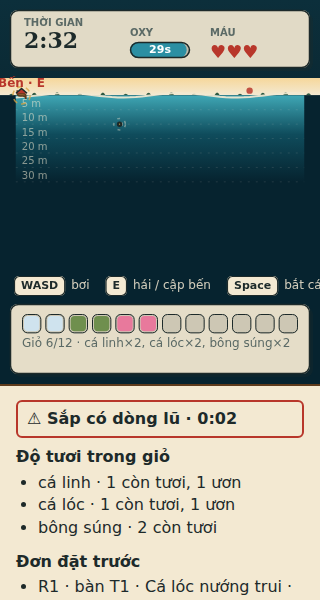
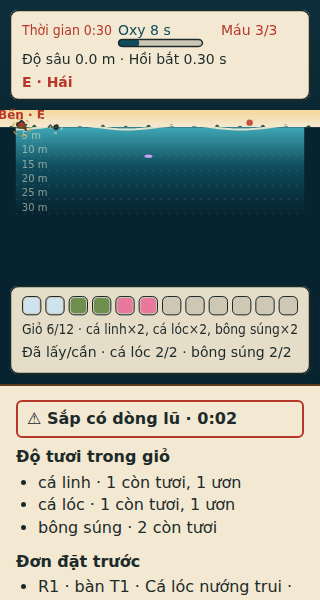
fix: giữ đủ HUD Phase 2 khi chơi Phase 3
Khôi phục mục tiêu thu gom, cảnh báo lặn, tiền ca, bếp và các bàn. Kiểm Chromium ở hai kích thước, suite 377 đạt và 1 skip. Ghép thử lát D 853ce1b: HUD nhận đặt trước từ mô phỏng thật, 22 test đạt.

Changed region(s): [[0.0, 0.03, 1.0, 0.36], [0.0312, 0.45, 1.0, 0.6]]

diff --git a/chonoi/web/index.html b/chonoi/web/index.html
@@ -472,12 +472,11 @@ function panel(x, y, w, h, fill = C.panel) {
   ctx.fillStyle = fill; rr(x, y, w, h, 8); ctx.fill();
   ctx.strokeStyle = C.ink; ctx.lineWidth = 1.5; rr(x + .5, y + .5, w - 1, h - 1, 8); ctx.stroke();
 }
-function bar(x, y, w, h, frac, color, label) {
+function bar(x, y, w, h, frac, color) {
   ctx.fillStyle = "rgba(29,42,42,.18)"; rr(x, y, w, h, h / 2); ctx.fill();
   const f = Math.max(0, Math.min(1, frac));
   if (f > 0) { ctx.fillStyle = color; rr(x, y, Math.max(h, w * f), h, h / 2); ctx.fill(); }
   ctx.strokeStyle = C.ink; ctx.lineWidth = 1.5; rr(x + .5, y + .5, w - 1, h - 1, h / 2); ctx.stroke();
-  if (label) text(label, x + w / 2, y + h / 2, { size: 11, weight: 600, align: "center", base: "middle", color: "#fff" });
 }
 function fmtTime(ticks) {
   const s = Math.ceil(ticks / 60);
@@ -494,15 +493,15 @@ function eventLog(w, h, bottom) {
   ev.forEach((e, i) => text(`t${e.tick} ${e.name} ${brief(e.data)}`, x + 10, y + 18 + i * 16,
     { size: 11, color: "rgba(243,233,210,.85)", maxWidth: pw - 20 }));
 }
-function banner(msg, y, color) {
+function banner(msg, w, y, color) {
   ctx.font = "600 15px " + SANS;
-  const tw = ctx.measureText(msg).width + 32, x = (innerWidth - tw) / 2;
+  const tw = Math.min(w - 16, ctx.measureText(msg).width + 32), x = (w - tw) / 2;
   ctx.fillStyle = color; rr(x, y - 20, tw, 32, 16); ctx.fill();
-  text(msg, innerWidth / 2, y - 4, { align: "center", color: "#fff", size: 15, weight: 600 });
+  text(msg, w / 2, y - 4, { align: "center", color: "#fff", size: 15, weight: 600, maxWidth: tw - 24 });
 }
 function overlay(w, h) {
-  if (offline) banner("Mất kết nối tới máy chủ (đã tắt chưa?)", 112, C.lacquer);
-  if (snap.error) banner("Luật của nhóm báo lỗi — xem terminal. R để chơi lại.", 148, C.lacquer);
+  if (offline) banner("Mất kết nối tới máy chủ (đã tắt chưa?)", w, 112, C.lacquer);
+  if (snap.error) banner("Luật của nhóm báo lỗi — xem terminal. R để chơi lại.", w, 148, C.lacquer);
   if (snap.finished) {
     ctx.fillStyle = "rgba(6,35,47,.6)"; ctx.fillRect(0, 0, w, h);
     const pw = Math.min(440, w - 24), ph = 150, x = (w - pw) / 2, y = (h - ph) / 2;
@@ -531,13 +530,6 @@ function hints(items, x, y, color) {
     cx += ctx.measureText(d).width + 16;
   }
 }
-function chip(label, value, x, y, color) {
-  text(label, x, y, { size: 10, weight: 600, color: C.inkSoft });
-  text(value, x, y + 22, { size: 22, serif: true, weight: 700, color: color || C.ink });
-}
-
-const CLOCK_COLOR = "#ffae83";
-const WARNING_COLOR = "#ff9c9c";
 const MONSTER_COLOR = "#c9a0ff";
 const distance = (a, b) => Math.hypot(a[0] - b[0], a[1] - b[1]);
 
@@ -656,7 +648,9 @@ function drawGather(w, h) {
   const meta = snap.meta || {};
   const b = meta.bounds || { x: [0, 100], d: [0, 30] };
   const X = b.x[1], D = b.d[1], SKY = 6;
-  const top = 78, bottom = 82;
+  const desktop = w >= 760;
+  const size = desktop ? 18 : 14;
+  const top = 110, bottom = 100;
   const s = Math.max(1, Math.min((w - 20) / (X + 4), (h - top - bottom) / (D + SKY + 1)));
   const ox = (w - s * (X + 4)) / 2 + 2 * s, oy = top + SKY * s;
   const sx = (x) => ox + x * s, sy = (d) => oy + d * s;
@@ -743,21 +737,37 @@ function drawGather(w, h) {
     }
   }
   // HUD trên
-  panel(10, 10, Math.min(w - 20, 520), 58);
-  chip("THỜI GIAN", fmtTime(snap.time_left_ticks), 24, 26);
-  let hx = 130;
-  if (p && p.oxygen_ticks !== undefined && p.oxygen_max_ticks) {
-    const low = p.oxygen_ticks < p.oxygen_max_ticks * 0.25, bw = Math.min(190, Math.max(60, w - hx - 200));
-    text("OXY", hx, 36, { size: 10, weight: 600, color: C.inkSoft });
-    bar(hx, 42, bw, 16, p.oxygen_ticks / p.oxygen_max_ticks, low ? C.lacquer : "#2b8fa3", Math.ceil(p.oxygen_ticks / 60) + "s");
-    hx += bw + 20;
+  panel(10, 10, Math.min(w - 20, 640), 90, C.paper);
+  const oxyX = desktop ? 185 : 118;
+  const oxyWidth = desktop ? 132 : Math.max(36, Math.min(85, w - 222));
+  text(`Thời gian ${fmtTime(snap.time_left_ticks)}`, 22, 35,
+    { size, maxWidth: oxyX - 28, color: snap.time_left_ticks <= 30 * 60 ? C.lacquer : C.ink });
+  if (p?.oxygen_max_ticks) {
+    const ratio = p.oxygen_ticks / p.oxygen_max_ticks;
+    const color = ratio < .25 ? C.lacquer : C.teal;
+    text(`Oxy ${Math.ceil(p.oxygen_ticks / 60)} s`, oxyX, 35, { size, color });
+    bar(oxyX, 39, oxyWidth, 8, ratio, color);
   }
-  if (p && p.hp !== undefined && p.hp_max) {
-    text("MÁU", hx, 36, { size: 10, weight: 600, color: C.inkSoft });
-    text("♥".repeat(Math.max(0, p.hp)) + "♡".repeat(Math.max(0, p.hp_max - p.hp)), hx, 58, { size: 18, color: C.lacquer, maxWidth: 110 });
+  if (p?.hp_max) text(`Máu ${p.hp}/${p.hp_max}`, oxyX + oxyWidth + 18, 35, { size, color: C.lacquer });
+  if (p?.pos) {
+    const depth = p.pos[1];
+    const cooldown = p.catch_cd_ticks > 0 ? `${(p.catch_cd_ticks / 60).toFixed(2)} s` : "sẵn sàng";
+    text(`Độ sâu ${depth.toFixed(1)} m · Hồi bắt ${cooldown}`, 22, 64, { size, maxWidth: w - 44 });
+    const monsterNear = monsters.some(monster => {
+      const spec = meta.monsters?.species?.[monster.kind];
+      return spec && depth >= spec.depths[0] && distance(p.pos, monster.pos) <= spec.detect_radius;
+    });
+    const inDock = distance(p.pos, dp) <= dr;
+    const canGather = p.at_surface && (snap.nodes || []).some(n => n.ready && distance(n.pos, p.pos) <= meta.interact_radius);
+    const prompt = inDock ? "E · Cập bến" : canGather ? "E · Hái" : "";
+    const warning = [monsterNear ? "Thủy quái!" : "", p.oxygen_ticks === 0 ? "Hết hơi!" : "", prompt].filter(Boolean).join(" · ");
+    if (warning) text(warning, 22, 87, { size, maxWidth: w - 44, weight: 600, color: C.lacquer });
+    if (monsterNear) {
+      ctx.strokeStyle = MONSTER_COLOR;
+      ctx.lineWidth = 4;
+      ctx.strokeRect(3, 3, w - 6, h - 6);
+    }
   }
-  if (p && p.pos && w > 700) text(`x ${p.pos[0].toFixed(1)} · d ${p.pos[1].toFixed(1)}` + (p.catch_cd_ticks > 0 ? ` · hồi chiêu ${(p.catch_cd_ticks / 60).toFixed(1)}s` : ""),
-    w - 14, 30, { size: 12, align: "right", color: "rgba(29,42,42,.7)" });
   // giỏ (khoang) dưới
   panel(10, h - bottom + 2, w - 20, bottom - 12, "rgba(243,233,210,.94)");
   if (snap.hold && snap.hold_capacity) {
@@ -772,9 +782,13 @@ function drawGather(w, h) {
     }
     const names = ingredientCounts(snap.hold);
     const materials = Object.entries(names).map(([kind, count]) => `${KIND_NAME[kind] || kind}×${count}`).join(", ");
-    text(`Giỏ ${snap.hold_count ?? snap.hold.length}/${cap} · ${materials || "trống"}`, 22, y0 + sz + 14, { size: 12, color: C.inkSoft, maxWidth: w - 44 });
+    text(`Giỏ ${snap.hold_count ?? snap.hold.length}/${cap} · ${materials || "trống"}`, 22, y0 + sz + 19, { size, maxWidth: w - 44 });
+    const goals = Object.entries(snap.day_plan?.ingredients || {}).map(([kind, target]) =>
+      `${KIND_NAME[kind] || kind} ${names[kind] || 0}/${target}`).join(" · ");
+    if (goals) text(`Đã lấy/cần · ${goals}`, 22, y0 + sz + 42, { size, maxWidth: w - 44 });
   }
-  hints([["WASD", "bơi"], ["E", "hái / cập bến"], ["Space", "bắt cá"], ["R", "chơi lại"]], 14, h - bottom - 26, "rgba(243,233,210,.85)");
+  if (desktop) hints([["WASD", "bơi"], ["E", "hái / cập bến"], ["Space", "bắt cá"],
+    snap.mode === "day" ? ["Esc/P", "tạm dừng"] : ["R", "chơi lại"]], 14, h - bottom - 26, C.paper);
   eventLog(w, h, bottom);
 }
 
@@ -854,39 +868,40 @@ function drawQuan(w, h) {
   const available = availableStock(snap);
   const materials = Object.entries(available).filter(([, count]) => count > 0)
     .map(([kind, count]) => `${KIND_NAME[kind] || kind}×${count}`).join(", ");
-  panel(10, 10, w - 20, 66);
-  chip("THỜI GIAN", fmtTime(snap.time_left_ticks), 24, 26);
-  const stat = (label, val, i, col) => chip(label, val, w - 14 - (3 - i) * 96 - 10, 26, col);
-  if (w > 560) {
-    stat("TIỀN", snap.money + "k", 0, C.leaf);
-    stat("UY TÍN", String(Number(snap.reputation.toFixed(2))), 1, C.lacquer);
-    stat("ĐIỂM", String(snap.score), 2);
-  }
-  const infoWidth = w - 144 - (w > 560 ? 330 : 0);
-  text(`Kho khả dụng · ${materials || "trống"}`, 130, 38, { size: 14, color: C.inkSoft, maxWidth: infoWidth });
-  text(`Đang bưng · ${dishName(snap.hand) || "tay trống"}`, 130, 58, { size: 14, weight: 600, maxWidth: infoWidth });
+  panel(10, 10, w - 20, 84, C.paper);
+  const earned = snap.shift_earned ?? snap.earned ?? snap.money;
+  text(`Thời gian ${fmtTime(snap.time_left_ticks)} · Tiền ca ${earned}k · Uy tín ${Number(snap.reputation.toFixed(2))}`,
+    22, 35, { size, weight: 600, maxWidth: w - 44 });
+  text(`Kho khả dụng · ${materials || "trống"}`, 22, 59, { size, maxWidth: w - 44 });
+  text(`Đang bưng · ${dishName(snap.hand) || "tay trống"}`, 22, 83, { size, maxWidth: w - 44 });
 
   panel(10, h - bottom + 2, w - 20, bottom - 12, "rgba(243,233,210,.94)");
   let row = h - bottom + 26;
+  const column = compact ? w - 44 : (w - 60) / 2;
+  const tableX = compact ? 22 : 22 + column + 16;
   for (const stove of stoves) {
-    let status = "Trống", col = C.inkSoft;
-    if (stove.state === "cooking") { status = `Đang nấu ${dishName(stove.dish)} (${Math.ceil(stove.cook_ticks_left / 60)}s)`; col = "#b5651d"; }
-    if (stove.state === "ready") { status = `Đã chín · ${dishName(stove.dish)}`; col = "#3f8a3a"; }
-    ctx.fillStyle = col; ctx.beginPath(); ctx.arc(26, row - 4, 4, 0, Math.PI * 2); ctx.fill();
-    text(`Bếp ${stove.id} · ${status}`, 38, row, { size: 13, maxWidth: w - 60 });
-    row += 22;
+    const cooking = stove.state === "cooking";
+    const total = (snap.menu?.[stove.dish?.dish_id || stove.dish]?.cook_s || 0) * 60;
+    const showProgress = !compact && cooking && total > 0;
+    let status = "Trống";
+    if (cooking) status = `Đang nấu ${dishName(stove.dish)} (${Math.ceil(stove.cook_ticks_left / 60)} s)`;
+    if (stove.state === "ready") status = `Đã chín · ${dishName(stove.dish)}`;
+    text(`Bếp ${stove.id} · ${status}`, 22, row, { size, maxWidth: column - (showProgress ? 90 : 0) });
+    if (showProgress) bar(22 + column - 80, row - 13, 80, 12, 1 - stove.cook_ticks_left / total, C.ochre);
+    row += 27;
   }
-  for (const customer of customers) {
-    const waiting = customer.state === "waiting";
-    ctx.fillStyle = waiting ? C.lacquer : C.leaf; ctx.beginPath(); ctx.arc(26, row - 4, 4, 0, Math.PI * 2); ctx.fill();
-    text(`${customer.table_id} · ${dishName(customer.dish_id)}${waiting ? "" : " · Đang ăn"}`, 38, row, { size: 13, maxWidth: w - (waiting ? 176 : 60) });
-    if (waiting) {
-      const patience = customer.patience_ticks_left;
-      bar(w - 142, row - 14, 120, 16, patience / patMax, C.lacquer, `Chờ ${Math.ceil(patience / 60)}s`);
-    }
-    row += 22;
+  if (!compact) row = h - bottom + 26;
+  for (const table of tables) {
+    const customer = byTable[table.id];
+    const waiting = customer?.state === "waiting";
+    const low = waiting && customer.patience_ticks_left < patMax / 4;
+    const activity = waiting ? `Chờ ${Math.ceil(customer.patience_ticks_left / 60)} s` : "Đang ăn";
+    const status = customer ? `${dishName(customer.dish_id)} · ${activity}` : "Trống";
+    text(`Bàn ${table.id} · ${status}`, tableX, row, { size, maxWidth: column, color: low ? C.lacquer : C.ink });
+    row += 27;
   }
-  hints([["WASD", "đi"], ["E", "bếp / bàn"], ["R", "chơi lại"]], 14, h - bottom - 26, "rgba(29,42,42,.9)");
+  if (!compact) hints([["WASD", "đi"], ["E", "bếp / bàn"],
+    snap.mode === "day" ? ["Esc/P", "tạm dừng"] : ["R", "chơi lại"]], 14, h - bottom - 26, C.paper);
   eventLog(w, h, bottom);
 }
 

diff --git a/docs/proof/phase-3/ui/README.md b/docs/proof/phase-3/ui/README.md
@@ -1,6 +1,6 @@
 # Kiểm chứng Phase 3 — lát U
 
-Mã UI kiểm ở `5f82bfc`, lấy từ `main` `43f2de4`. Chromium dùng snapshot fixture theo TICKET-03 ở 320×600 và 1280×720. Bản live hiện tại vẫn dùng manifest v1.1.
+Nền kiểm là `main` `43f2de4` cùng thay đổi HUD trong PR #29. Chromium dùng snapshot fixture theo TICKET-03 ở 320×600 và 1280×720. Bản live trên `main` dùng manifest v1.1.
 
 | Kiểm tra | Kết quả |
 |---|---|
@@ -8,6 +8,8 @@ Mã UI kiểm ở `5f82bfc`, lấy từ `main` `43f2de4`. Chromium dùng snapsho
 | Đơn đặt trước | Gather hiện R1/R2, bàn, món và giờ đến trong ca tối. Quán hiện trạng thái giữ bàn, thời gian còn lại và trạng thái cuối. Tại 320 px, cuộn bảng HUD để đọc các đơn ở cuối danh sách. |
 | Dòng lũ | Fixture báo trước 2 giây bằng chữ và biểu tượng. Playwright quan sát một lần phát âm Web Audio sau khi người chơi tương tác. Khi lũ bắt đầu, HUD hiện hướng và đồng hồ dựa trên `ticks_left`. Cảnh báo biến mất khi dòng kết thúc. |
 | Regression và HTTP | Suite chạy 378 test, 377 đạt và 1 skip dành cho v1.0. Trình duyệt mở được vòng ngày v1.1 bình thường. Quán thật qua HTTP trả đúng id, độ tươi và cấu hình ngưỡng ươn khi chạy riêng với fixture cá thể. |
+| HUD Phase 2 xuyên Phase 3 | Chromium kiểm mục tiêu đã lấy/cần, cảnh báo giờ còn đúng 30 giây, oxy dưới 25%, hết hơi và viền tím thủy quái. Kiểm gợi ý tại mép vùng bến/hái, tiền ca, 2 bếp, 4 bàn và đổi màu kiên nhẫn dưới 25%. |
+| Bản ghép thử lát D | Ghép code UI vào `853ce1b` của lát D. Với cấu hình fixture, trình duyệt đọc được R1/R2 thật từ DaySim, xem R1 giữ bàn rồi lỡ do thiếu kho. Ca quán riêng có R1 giữ đúng cá thể I1, giữ I2 ươn trong kho và hiển thị đúng HUD. 22 test Day, reservations và live đều đạt. [Ảnh quán chạy với lát D](hud-quan-day-candidate.png) |
 
 - HUD sáng có cảnh báo lũ. [1280×720](hud-gather-1280.png) · [320×600](hud-gather-320.png)
 - HUD quán với kho cá thể, phần giữ và đơn đặt trước. [1280×720](hud-quan-1280.png) · [320×600](hud-quan-320.png)
@@ -17,5 +19,7 @@ Mã UI kiểm ở `5f82bfc`, lấy từ `main` `43f2de4`. Chromium dùng snapsho
 PYTHONPATH=tests:. python3 -m unittest discover -s tests -v
 python3 -m chonoi.live --mode day --seed 42
 ```
+
+Trên bản ghép lát D, chạy `PYTHONPATH=tests:. python3 -m unittest test_p3_day test_p3_reservations test_live -v`.
 
 Kiểm live trọn vòng v1.2, regression trên manifest v1.2 chính thức và ảnh khớp commit bàn giao cần thực hiện sau khi các lát Contract, Gather/current và Day/reservations đã tích hợp.

diff --git a/TASK.md b/TASK.md
@@ -530,6 +530,7 @@ PYTHONPATH=tests:. python3 -m unittest discover -s tests -v
 
 ### RachalHys
 - [x] Chạy toàn suite với manifest v1.1 trên nhánh U, 377 test đạt và 1 skip. Kiểm HUD v1.2 qua fixture. [Ảnh và kết quả của lát U](docs/proof/phase-3/ui/README.md) để haiquanng nối vào proof chung.
+- [x] Rà lại các mục HUD Phase 2 sau đợt đổi phong cách. Ghép thử lát D `853ce1b`, kiểm trình duyệt với đặt trước thật và chạy 22 test Day, reservations và live.
 - [ ] Chạy lại regression và chụp HUD trên `main` sau khi Contract v1.2, Gather/current và Day/reservations được tích hợp.
 
 ---
